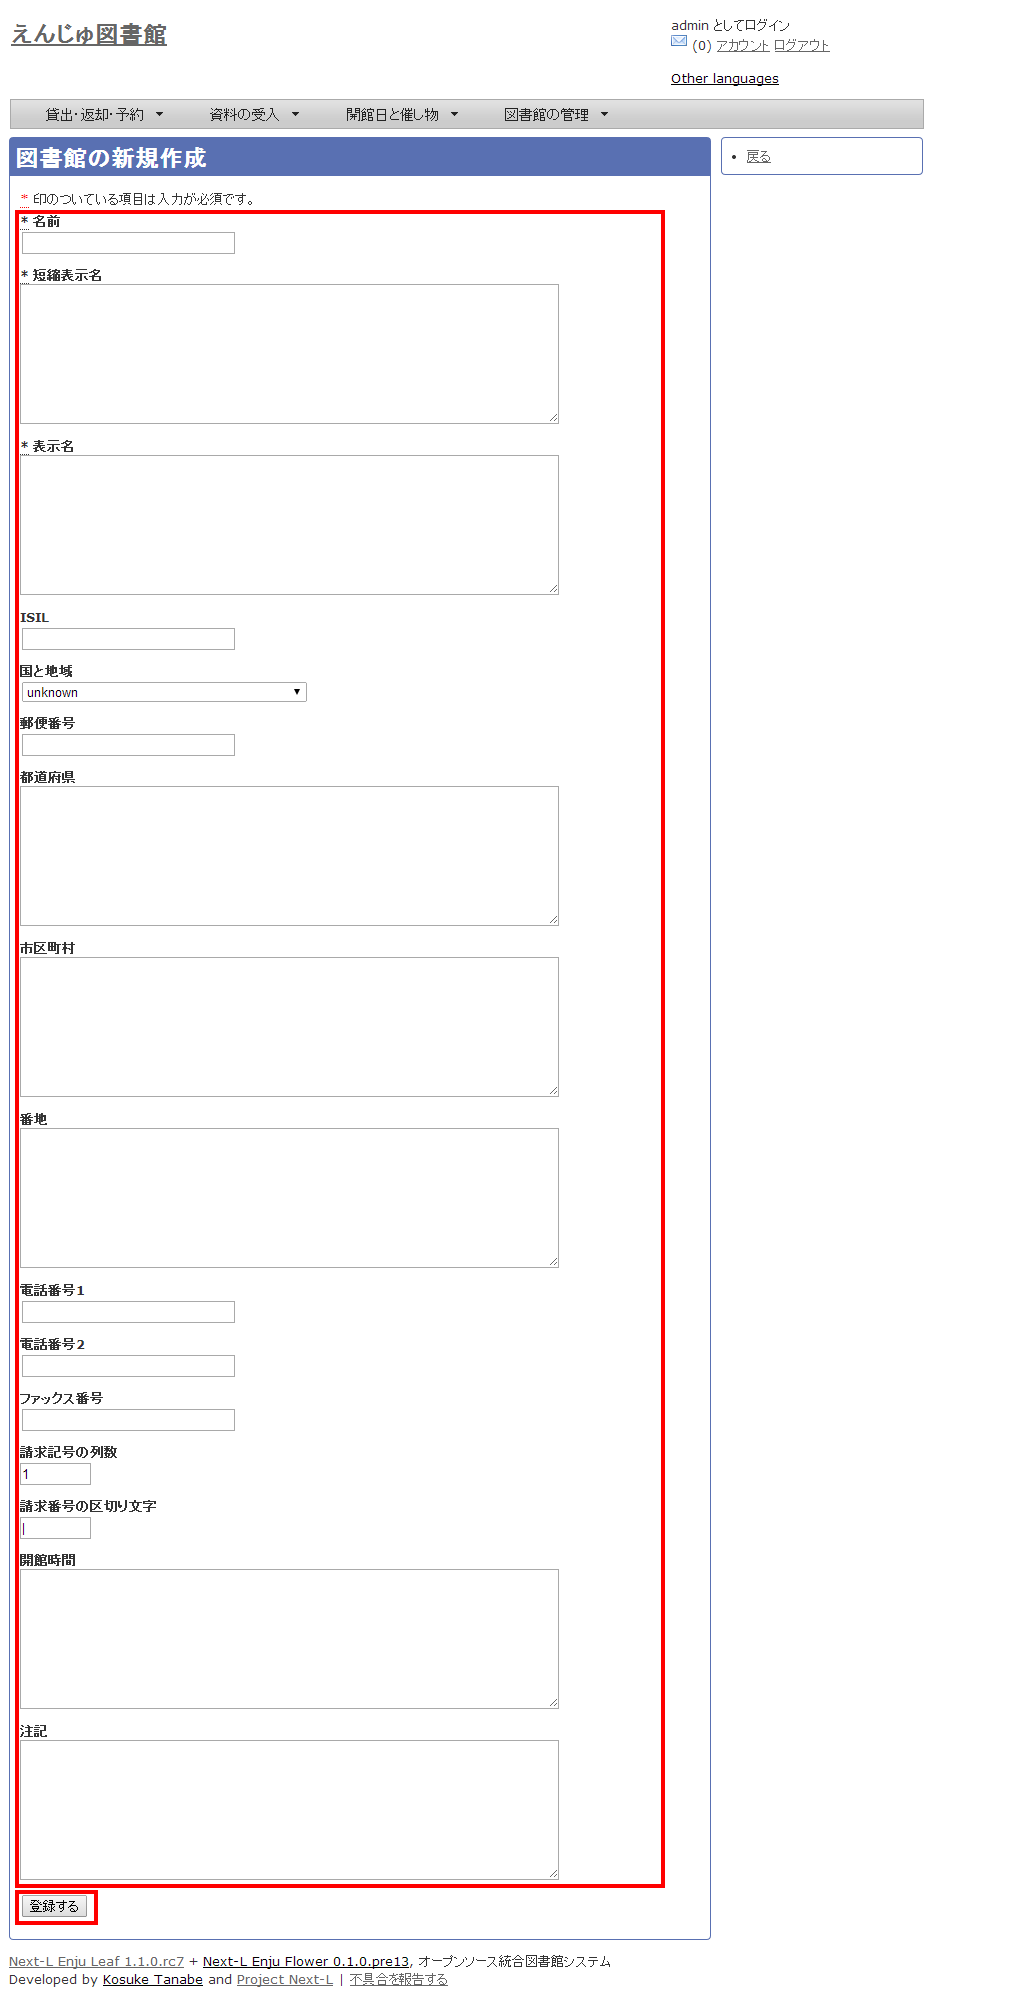
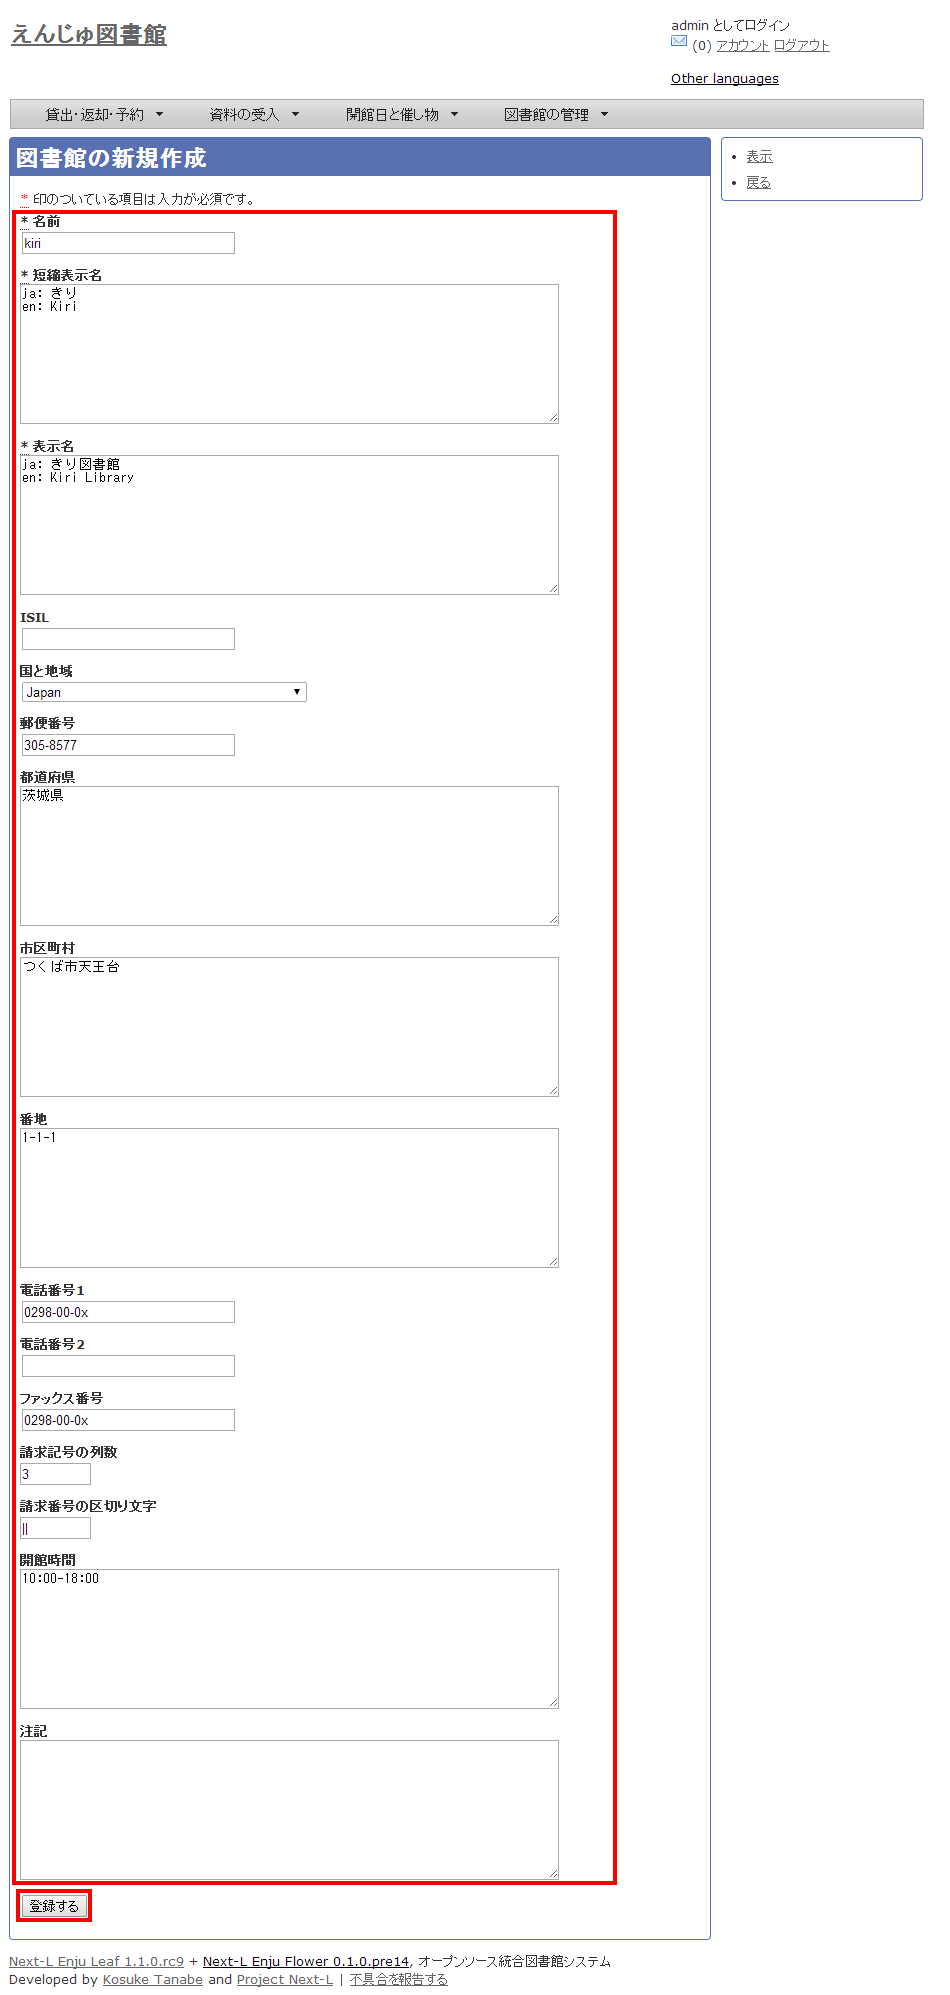
初期設定マニュアルの図書館の新規作成のスクリーンショットを修正

diff --git a/_includes/enju_setup/library.md b/_includes/enju_setup/library.md
@@ -36,4 +36,6 @@
    <div class="alert alert-info">
    【Memo】「＊」のマークが付いた項目は入力必須項目です。[名前]は3文字以上、256文字以内で、半角である必要があります。使用できる文字はアルファベットの小文字、数字、-（ハイフン）、_（アンダースコア）です。ただし、名前の最初はアルファベットの小文字のみが使用でき、名前の最後にはハイフンとアンダースコアは使用できません。
    </div>
+5. 「図書館は正常に作成されました」と表示され、図書館が作成されます。
+   ![図書館の作成](assets/images/image_initial_020_2.png)
 
